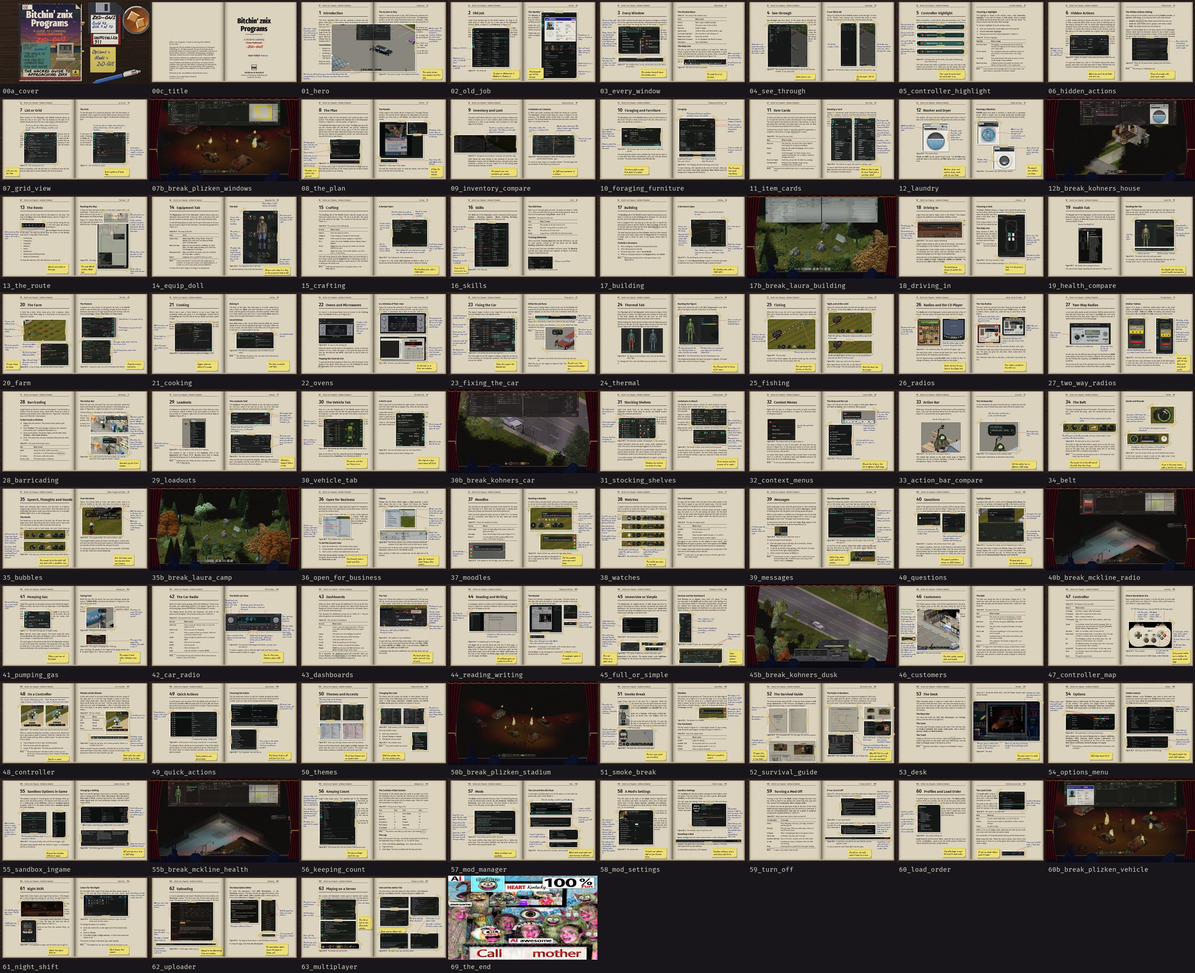
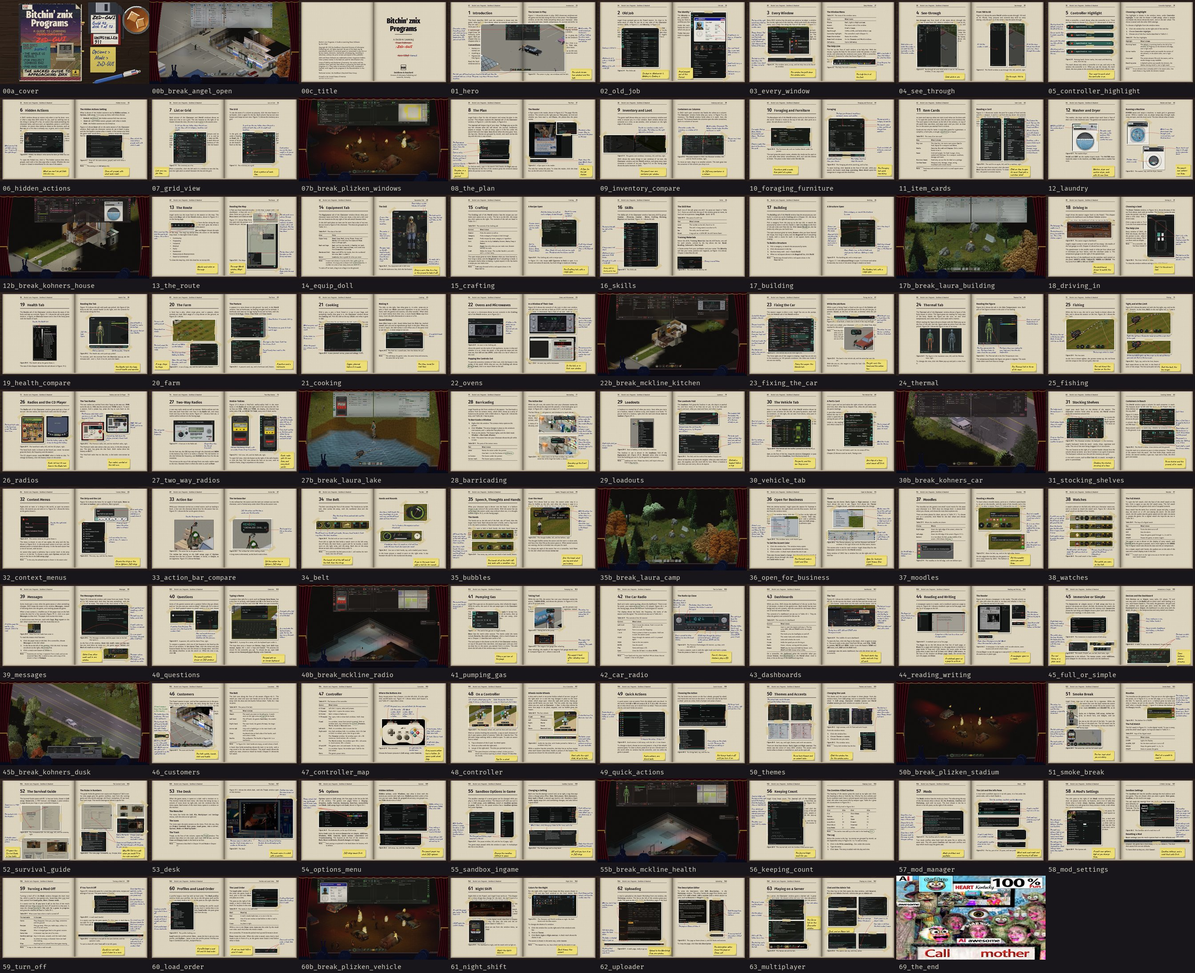
Gallery b12: four new breaks framed (Angel's opener, Kohners house, McKline kitchen, Laura's lake reshoot); make_b12 can hold a capture (ZED_B12_HOLD); 79 of 80

diff --git a/ZeDUI/workshop/gallery/make_b12.py b/ZeDUI/workshop/gallery/make_b12.py
@@ -49,11 +49,16 @@ BREAKS = [
 THE_END = ("69_the_end.jpg", os.path.join(HERE, "upload", "69_the_end.jpg"))   # the director's, placed by hand
 
 
+# captures held back from framing until the director decides on them (names, comma-separated, in ZED_B12_HOLD):
+# a held one keeps whatever framed picture it already has, or stays out of the set
+HOLD = set(n.strip() for n in os.environ.get("ZED_B12_HOLD", "").split(",") if n.strip())
+
+
 def frame_new(cin):
     """Frame QA's raw capture into cinema/ when it is there and newer than the framed one. Returns the framed path or None."""
     raw = os.path.join(RAW, cin + ".png")
     framed = os.path.join(CIN, cin + ".jpg")
-    if os.path.exists(raw) and (not os.path.exists(framed) or os.path.getmtime(raw) > os.path.getmtime(framed)):
+    if cin not in HOLD and os.path.exists(raw) and (not os.path.exists(framed) or os.path.getmtime(raw) > os.path.getmtime(framed)):
         cinema_frame.main(raw, framed)
     return framed if os.path.exists(framed) else None
 

diff --git a/ZeDUI/workshop/gallery/B12_ORDER.md b/ZeDUI/workshop/gallery/B12_ORDER.md
@@ -2,12 +2,12 @@
 
 Written by `make_b12.py` (plan v2, `PLAN_ALTERNATE_20261111.md`). Upload `upload_b12/` in file-name order, one picture at a time. Every picture is 1920 x 1080, each under 1 MB. Contact sheet: `upload_contact_b12.jpg`.
 
-76 pictures now; 80 when every shot is in.
+79 pictures now; 80 when every shot is in.
 
 | # | Picture | What it is |
 |---|---|---|
 | 1 | `00a_cover.jpg` | the cover: the desk, the book and the discs |
-| 2 | `00b_break_angel_open.jpg` | break (`cinema/cin_ang_open.jpg`): Angel, Light + Blue: the Fossoil in the morning, both windows on Loot **(missing)** |
+| 2 | `00b_break_angel_open.jpg` | break (`cinema/cin_ang_open.jpg`): Angel, Light + Blue: the Fossoil in the morning, both windows on Loot |
 | 3 | `00c_title.jpg` | the title spread |
 | 4 | `01_hero.jpg` | chapter 1, Introduction (story) |
 | 5 | `02_old_job.jpg` | chapter 2, Old Job (story) |
@@ -34,13 +34,13 @@ Written by `make_b12.py` (plan v2, `PLAN_ALTERNATE_20261111.md`). Upload `upload
 | 26 | `20_farm.jpg` | chapter 20, The Farm |
 | 27 | `21_cooking.jpg` | chapter 21, Cooking |
 | 28 | `22_ovens.jpg` | chapter 22, Ovens and Microwaves |
-| 29 | `22b_break_mckline_kitchen.jpg` | break (`cinema/cin_mck_kitchen.jpg`): McKline, High Contrast + Red: his kitchen, Cooking and the oven in Crafting **(missing)** |
+| 29 | `22b_break_mckline_kitchen.jpg` | break (`cinema/cin_mck_kitchen.jpg`): McKline, High Contrast + Red: his kitchen, Cooking and the oven in Crafting |
 | 30 | `23_fixing_the_car.jpg` | chapter 23, Fixing the Car (story) |
 | 31 | `24_thermal.jpg` | chapter 24, Thermal Tab |
 | 32 | `25_fishing.jpg` | chapter 25, Fishing |
 | 33 | `26_radios.jpg` | chapter 26, Radios and the CD Player |
 | 34 | `27_two_way_radios.jpg` | chapter 27, Two-Way Radios |
-| 35 | `27b_break_laura_lake.jpg` | break (`cinema/cin_lau_lake.jpg`): Laura, Light + Teal (reshoot): the lake, Radio (a walkie) and Fishing **(missing)** |
+| 35 | `27b_break_laura_lake.jpg` | break (`cinema/cin_lau_lake.jpg`): Laura, Light + Teal (reshoot): the lake, Radio (a walkie) and Fishing |
 | 36 | `28_barricading.jpg` | chapter 28, Barricading (story) |
 | 37 | `29_loadouts.jpg` | chapter 29, Loadouts |
 | 38 | `30_vehicle_tab.jpg` | chapter 30, The Vehicle Tab |
@@ -91,7 +91,4 @@ Written by `make_b12.py` (plan v2, `PLAN_ALTERNATE_20261111.md`). Upload `upload
 
 Each is framed and placed when its raw 4K capture is in `~/Zomboid/Screenshots` under this name; then run `py make_b12.py` again.
 
-- `cin_ang_open.png` for `00b_break_angel_open.jpg`: Angel, Light + Blue: the Fossoil in the morning, both windows on Loot
-- `cin_mck_kitchen.png` for `22b_break_mckline_kitchen.jpg`: McKline, High Contrast + Red: his kitchen, Cooking and the oven in Crafting
-- `cin_lau_lake.png` for `27b_break_laura_lake.jpg`: Laura, Light + Teal (reshoot): the lake, Radio (a walkie) and Fishing
 - `cin_ang_close.png` for `63b_break_angel_close.jpg`: Angel, Light + Blue, night: Angel meets a group of survivors on a server, Server and Loot
